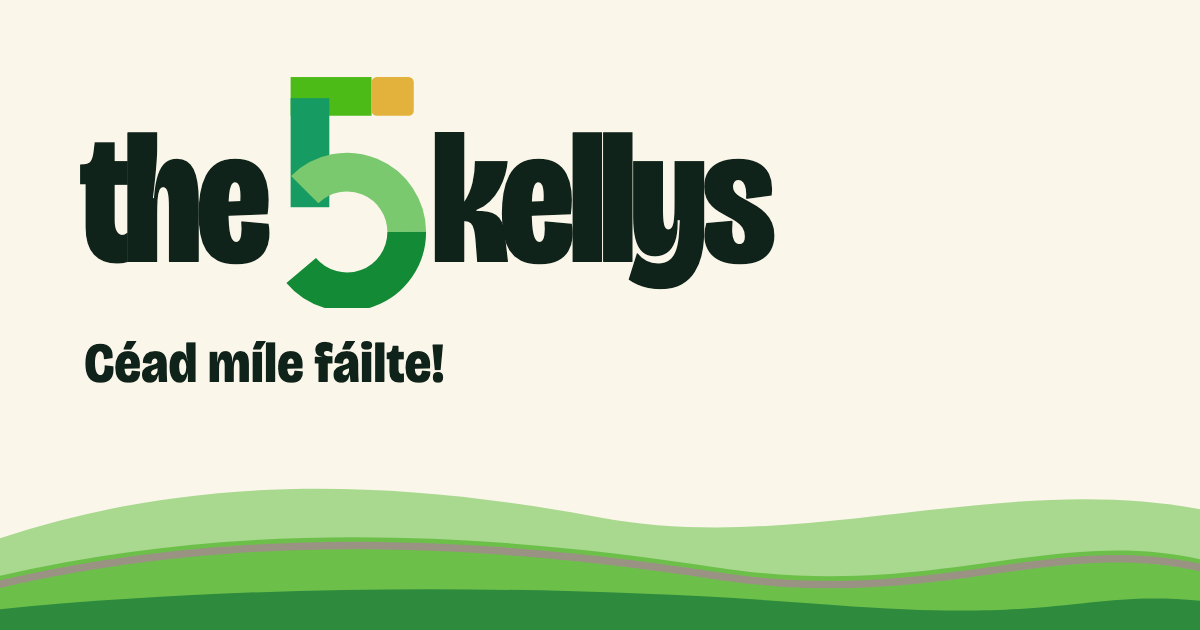
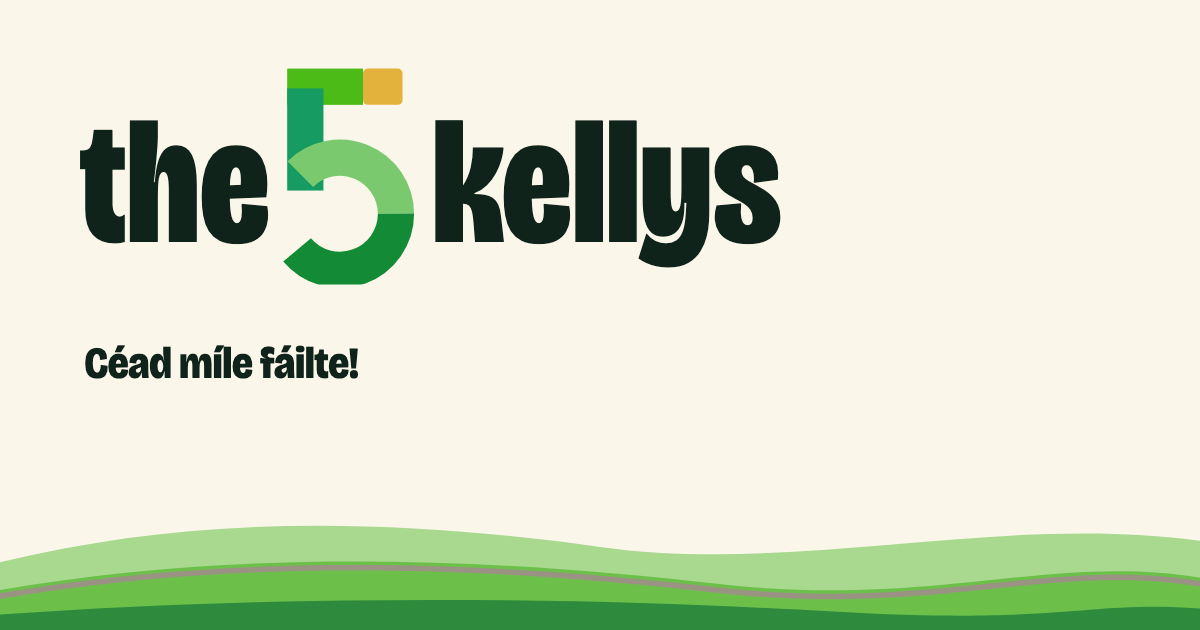
Wordmark: normal letter spacing; share image redrawn

Changed region(s): [[0.0, 0.754, 1.0, 0.9952], [0.0617, 0.0905, 0.6475, 0.5127], [0.0617, 0.5429, 0.37, 0.6032]]

diff --git a/index.html b/index.html
@@ -36,13 +36,13 @@
 
   .five5 { display: inline-block; height: 1.15em; width: auto; vertical-align: -0.2em; margin: 0 .02em; }
   header { padding: 18px 0; display: flex; justify-content: space-between; align-items: center; }
-  header .mark { text-decoration: none; color: var(--fg); font-weight: 800; font-size: 26px; letter-spacing: -.03em; font-stretch: 80%; }
+  header .mark { text-decoration: none; color: var(--fg); font-weight: 800; font-size: 26px; letter-spacing: 0; font-stretch: 80%; }
   header nav { display: flex; gap: 8px; font-size: 16px; font-weight: 600; }
   header nav a { color: var(--muted); text-decoration: none; display: inline-block; padding: 11px 8px; }
   header nav a:hover { color: var(--fg); text-decoration: underline; }
 
   .hero { padding: 3vh 0 0; position: relative; }
-  .wordmark { margin: 0; font-weight: 800; font-stretch: 75%; letter-spacing: -.03em; line-height: .86;
+  .wordmark { margin: 0; font-weight: 800; font-stretch: 75%; letter-spacing: 0; line-height: .86;
     font-size: clamp(56px, 22vw, 230px); }
   .wordmark .five5 { height: 1.25em; vertical-align: -0.24em; }
   .wordmark .br { display: block; }
